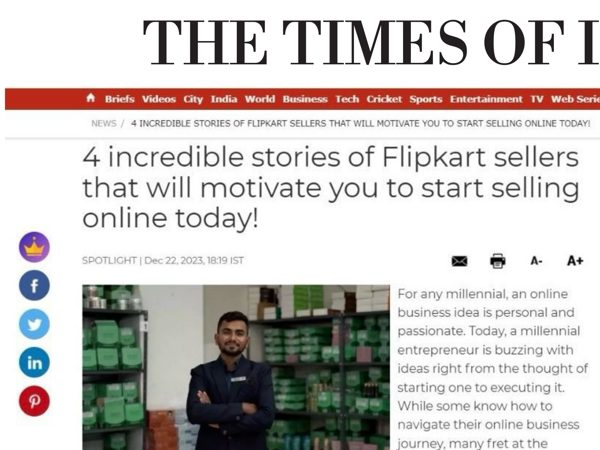
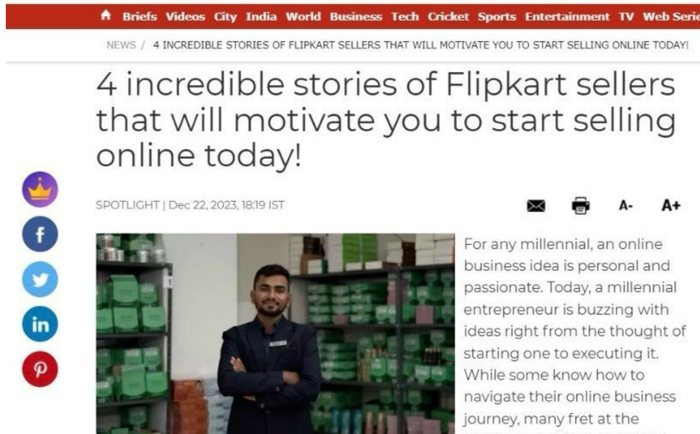
Homepage: Times of India masthead on the press card
Claude-Session: https://claude.ai/code/session_01BnAmhGfNb5AUa2g3iEnGWq

diff --git a/index.html b/index.html
@@ -161,7 +161,12 @@ section{padding:40px 0}
 .press-body blockquote{border-left:3px solid var(--gold);padding:2px 0 2px 12px;margin:0 0 14px;font-family:var(--serif);font-style:italic;font-size:18px;line-height:1.35;color:var(--ink)}
 .press-body blockquote cite{display:block;font-family:var(--sans);font-style:normal;font-size:12px;font-weight:600;color:var(--muted);margin-top:4px}
 .press-card + .press-card{margin-top:14px}
-.toi .press-media{background:#fff}
+.toi .press-media{background:#fff;display:flex;flex-direction:column}
+.toi-mast{display:flex;flex-direction:column;align-items:center;gap:4px;padding:14px 12px 10px;background:#fff;border-bottom:3px solid #c8102e;text-align:center}
+.toi-mast span{font-size:10px;font-weight:700;letter-spacing:.22em;color:#c8102e}
+.toi-mast b{font-family:"Old English Text MT","UnifrakturCook",Georgia,"Times New Roman",serif;font-weight:700;font-size:clamp(22px,6.6vw,34px);letter-spacing:.02em;color:#111;line-height:1;white-space:nowrap}
+.toi .press-media{aspect-ratio:auto}
+.toi .press-media img{height:auto;aspect-ratio:700/434}
 .awards{display:grid;gap:12px;margin-top:14px}
 .awards-photo{display:block;border-radius:var(--radius);overflow:hidden;border:1px solid var(--line);box-shadow:var(--shadow);background:#3a2a1c;aspect-ratio:4/3}
 .awards-photo img{width:100%;height:100%;object-fit:cover;object-position:center 40%}
@@ -292,7 +297,8 @@ footer strong{font-family:var(--serif);font-size:16px;letter-spacing:.06em;color
   .press-body{padding:28px}
   .awards{grid-template-columns:1fr 1fr;gap:18px;margin-top:18px;align-items:start}
   .awards-photo{aspect-ratio:16/10}
-  .toi .press-media img{aspect-ratio:4/3;object-fit:cover;object-position:top}
+  .toi .press-media{justify-content:flex-start;align-items:stretch}
+  .toi .press-media img{height:auto;aspect-ratio:700/434}
   .fact b{font-size:28px}
   .contact{grid-template-columns:1.2fr .8fr;gap:18px;align-items:start}
   .panel{padding:24px}
@@ -478,10 +484,11 @@ footer strong{font-family:var(--serif);font-size:16px;letter-spacing:.06em;color
     </article>
     <article class="press-card toi rv">
       <a class="press-media" href="assets/home/times-of-india.jpg" target="_blank" rel="noopener" aria-label="Open the Times of India clipping">
-        <img src="assets/home/times-of-india-thumb.jpg" alt="The Times of India article: 4 incredible stories of Flipkart sellers" loading="lazy" decoding="async" width="600" height="450">
+        <div class="toi-mast" aria-hidden="true"><span>AS FEATURED IN</span><b>THE TIMES OF INDIA</b></div>
+        <img src="assets/home/times-of-india-thumb.jpg" alt="The Times of India article: 4 incredible stories of Flipkart sellers" loading="lazy" decoding="async" width="700" height="434">
       </a>
       <div class="press-body">
-        <p class="press-src"><b>The Times of India</b><span>Spotlight · 22 Dec 2023</span></p>
+        <p class="press-src"><b style="background:#c8102e;color:#fff;border-color:#c8102e">The Times of India</b><span>Spotlight · 22 Dec 2023</span></p>
         <h3>4 incredible stories of Flipkart sellers that will motivate you to start selling online today!</h3>
         <blockquote>“Mohit Vaghela takes Estrelo to newer heights”<cite>Story no. 1 in the feature</cite></blockquote>
         <div class="btns">
